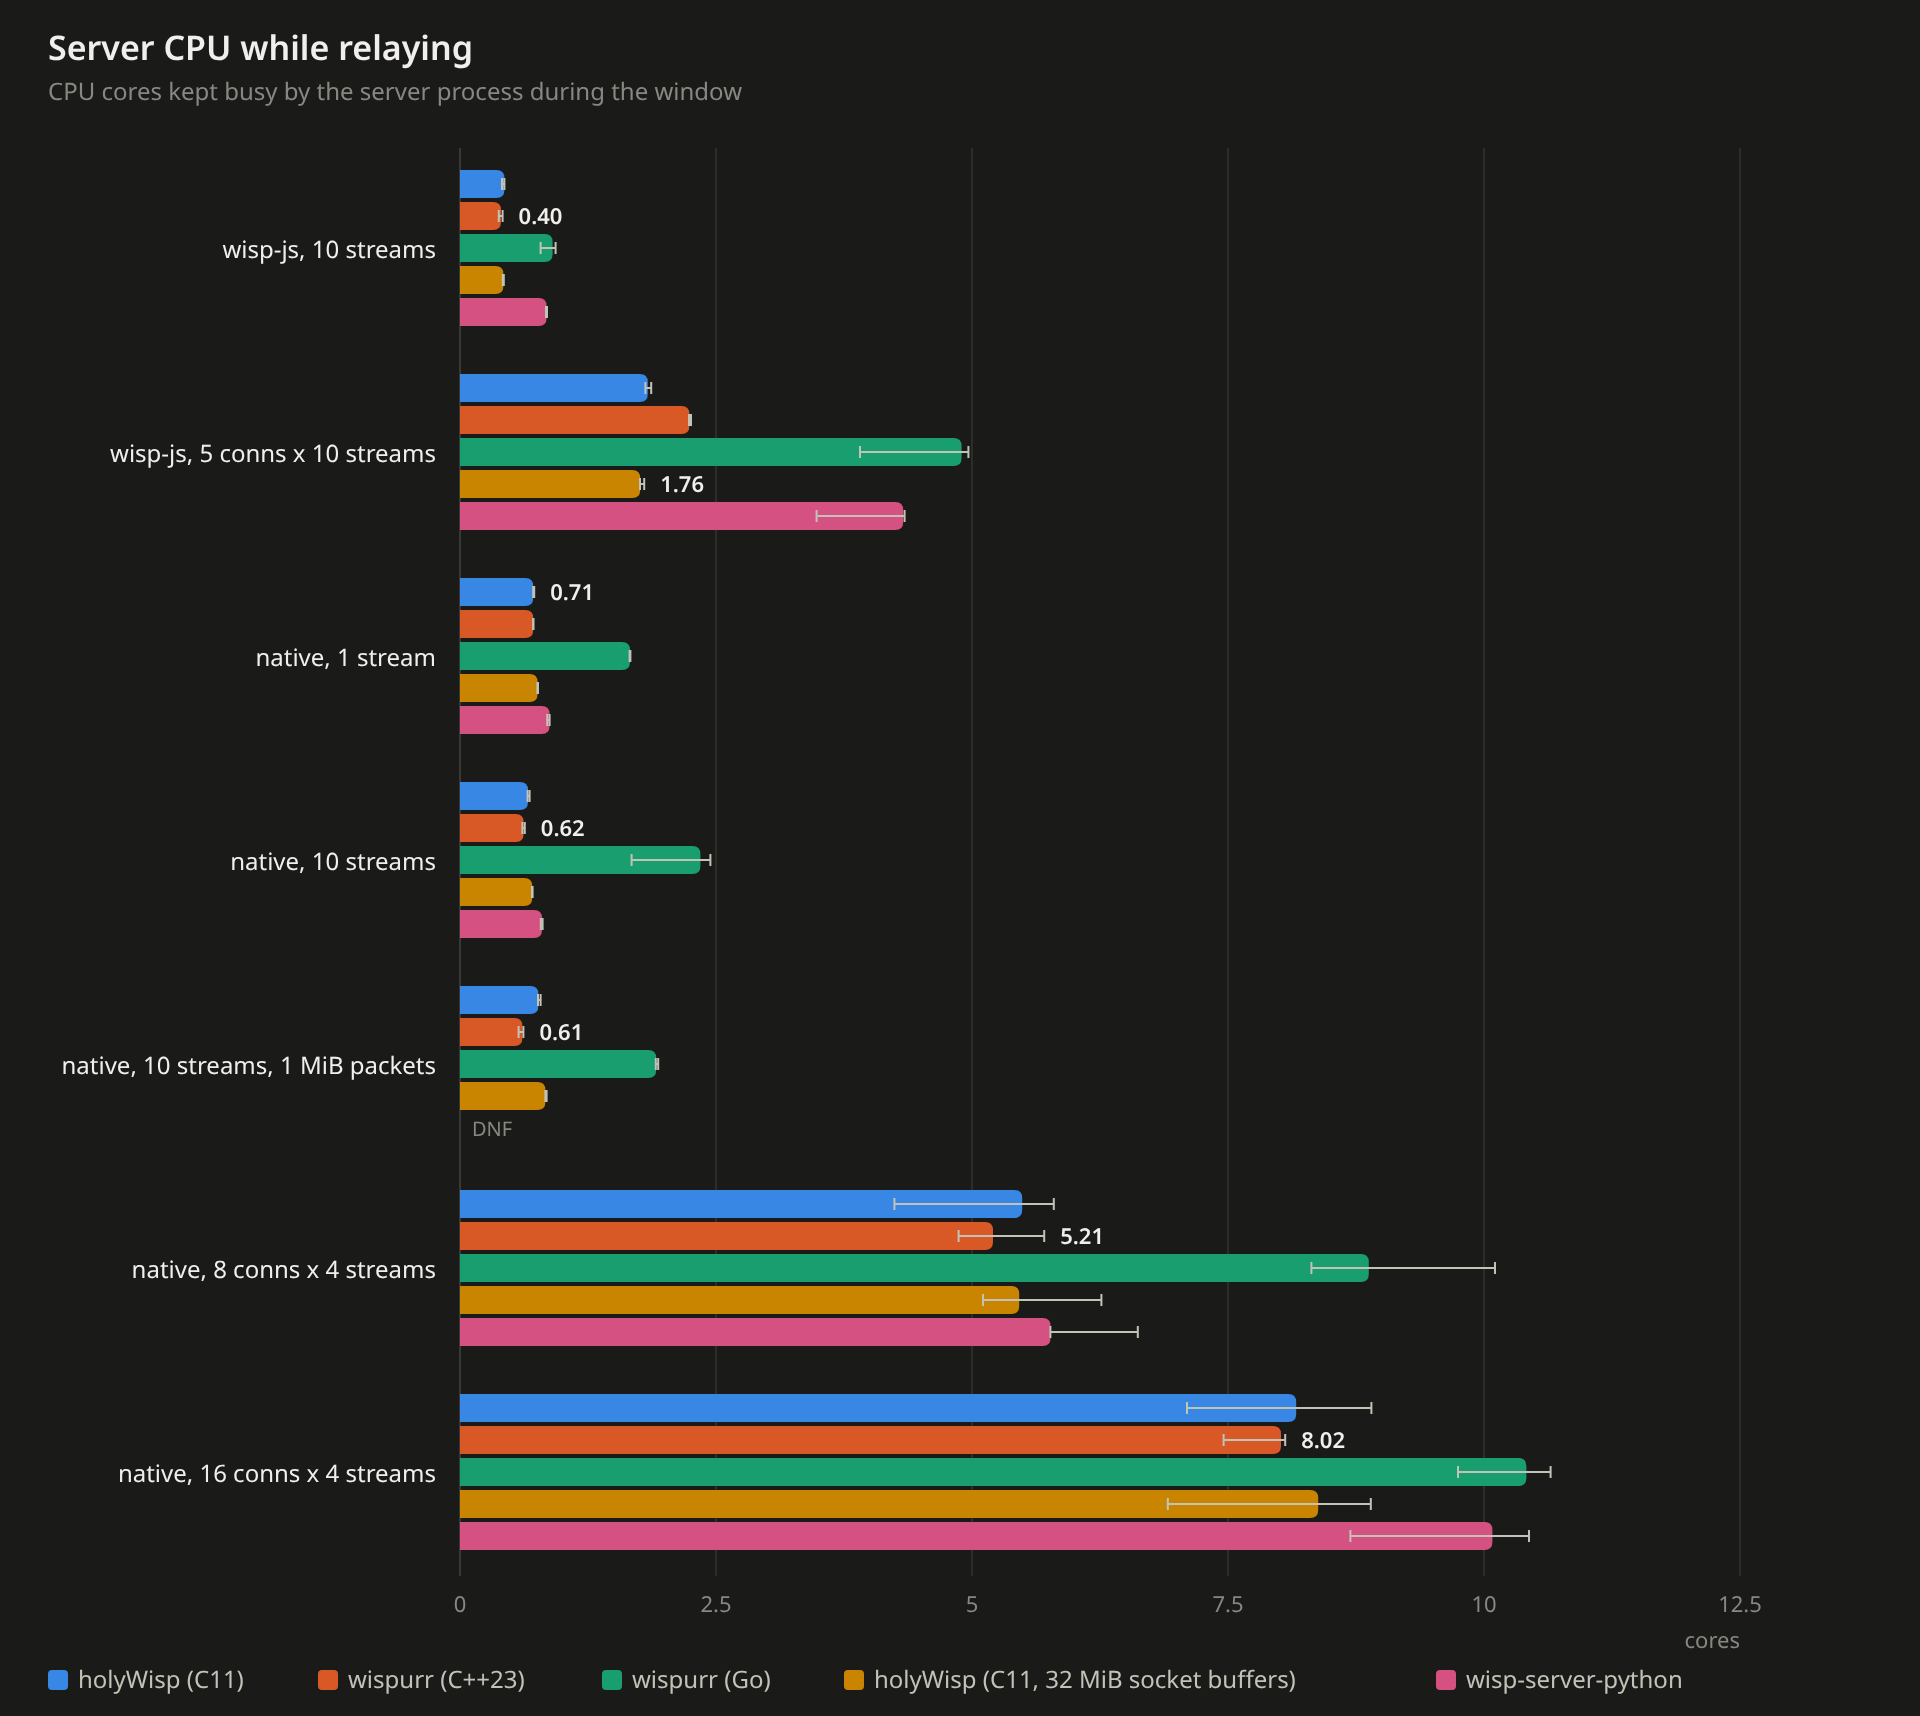
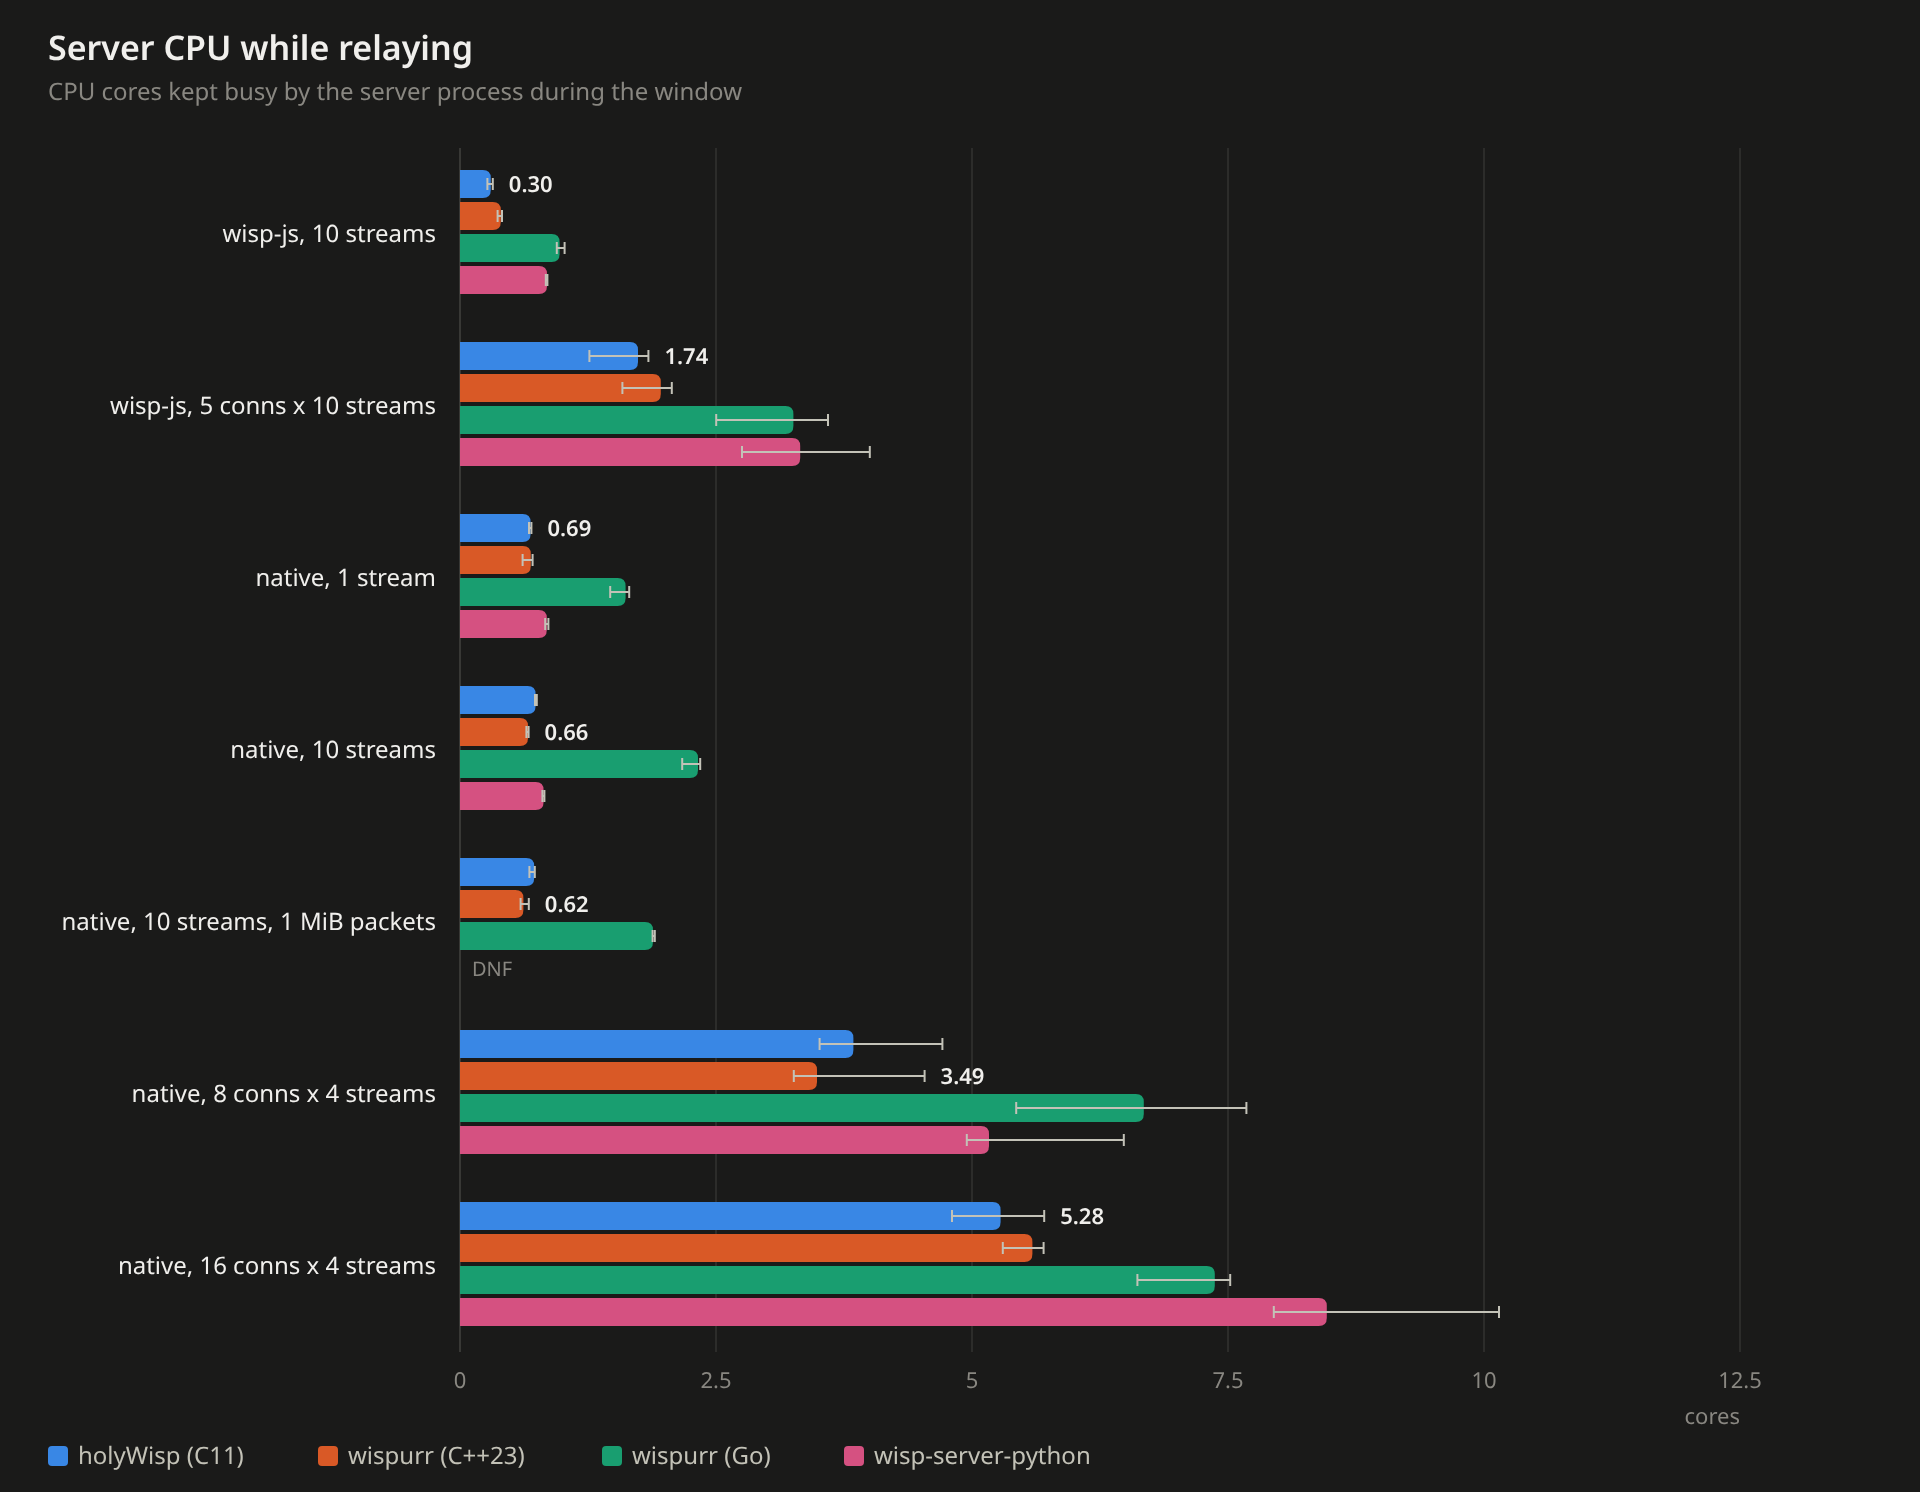
Refresh the benchmark results for the per-stream pipe build
Reruns the four-server matrix on fc9cd24 (five repeats of 10 s) and
regenerates bench/RESULTS.md and the charts. The README section is rewritten
from the new numbers: holyWisp leads both wisp-js scenarios and both
multi-connection scenarios by 16 to 36%, is within 4% of the C++23 wispurr
when one connection carries everything, and the Go wispurr has the highest
stream churn rate. The host was not idle during the run and the page says so.

The report text no longer describes the 8-packet window or attributes
wispurr's single-connection speed to a second loop: its source runs a
connection on one loop by default.

diff --git a/bench/charts.py b/bench/charts.py
@@ -484,7 +484,7 @@ window.</dd>
 wispurr Go {esc(v.get('wispurr_go_git', ''))} ({esc(v.get('go', ''))}); wispurr C++23 built with {esc(v.get('gcc', ''))};
 wisp-server-python {esc(v.get('wisp_python_git', ''))} on {esc(v.get('python', ''))}, default thread count.
 All run with flood protection, reputation and per-IP connection limits off, loopback and literal-IP egress
-allowed, error-level logging, default worker count.</dd>
+allowed, error-level logging, default worker count. The host was not idle during the run (a desktop session was using several cores), so compare servers within a row, not numbers across runs.</dd>
 <dt>Clients</dt><dd>wisp-js {esc(v.get('wisp-js', ''))} on Node {esc(v.get('node', ''))}, which is the client wispmark uses (50 KiB payloads),
 and the native pump from this repository, built on libholywisp-client (64 KiB packets unless stated, and it
 respects the server's CONTINUE window).</dd>
@@ -506,17 +506,19 @@ respects the server's CONTINUE window).</dd>
         + (f" Runs that still failed: {esc(', '.join(sorted(dnfs.get('wispurr-go', {}))))}." if dnfs.get("wispurr-go") else "")
         + "</li>")
     findings.append(
-        "<li><strong>holyWisp keeps its window small on purpose.</strong> The stock config caps the CONTINUE "
-        "window so that a full window of 1 MiB packets fits in half of the 16 MiB per-stream queue, which "
-        "works out to 8 packets, against the 32768 wispurr advertises. holyWisp also holds a CONTINUE back "
-        "while bytes are still queued toward the remote, so a client sending small packets is paced by how "
-        "fast the remote drains rather than by how much memory the server is willing to buffer.</li>")
+        "<li><strong>How holyWisp moves bulk data.</strong> Toward the client, a stream whose remote "
+        "delivers full reads gets its own pipe and is relayed with splice(), with pipe payloads queued in "
+        "order behind the frame bytes, so nothing is copied through user space. Toward the remote, "
+        "consecutive frames for a stream leave in one vectored write and frames of 128 KiB or more are "
+        "forwarded while they are still arriving. The advertised CONTINUE window is 128 packets; refills "
+        "share a per-connection budget between streams, and a CONTINUE is held back while bytes are still "
+        "queued toward the remote.</li>")
     findings.append(
-        "<li><strong>One connection or many.</strong> The C++23 wispurr splits each WebSocket's two "
-        "directions across two event loops and moves data with splice(), so a single busy connection can "
-        "use two cores. holyWisp keeps each connection on one loop and spreads connections across loops "
-        "with SO_REUSEPORT. That is why the single-connection scenarios go to wispurr and the 8 and 16 "
-        "connection scenarios go to holyWisp.</li>")
+        "<li><strong>One connection or many.</strong> Both holyWisp and the C++23 wispurr run a connection "
+        "on one event loop (wispurr can split a connection's two directions across loops, but its source "
+        "defaults to one and notes the split costs more CPU than it returns). They are close when a single "
+        "connection carries everything; holyWisp pulls ahead as traffic spreads over connections, where it "
+        "relays more bytes per CPU-second.</li>")
     if "wisp-python" in servers:
         findings.append(
             "<li><strong>wisp-server-python needed two install fixes.</strong> On this host's Python 3.14 it "

diff --git a/bench/RESULTS.md b/bench/RESULTS.md
@@ -1,69 +1,69 @@
 # Benchmark results
 
-Run on 2026-11-06. Charts for every table below are in `charts/`, light and dark.
+Run on 2026-11-09. Charts for every table below are in `charts/`, light and dark.
 The method, the exact server and client command lines, and the install notes for each server are in
 [README.md](README.md). Regenerate with `python3 -I bench/run.py` and `python3 -I bench/charts.py`.
 
+The host was a desktop that was not idle during the run (a browser was using several cores), so
+absolute numbers are lower than on a quiet machine and vary by several percent between runs.
+Servers were measured interleaved, so compare them within a row; differences of a few percent are
+within the noise.
+
 | | version |
 | --- | --- |
-| holyWisp | holywisp 0.1.0 (cb2510a), release build |
-| wispurr (Go) | 36de32e, go1.26.4 linux/amd64 |
+| holyWisp | holywisp 0.1.0 (fc9cd24), release build |
 | wispurr (C++23) | g++ (GCC) 16.2.1 20260819 (Red Hat 16.2.1-2) |
+| wispurr (Go) | 36de32e, go1.26.4 linux/amd64 |
 | wisp-server-python | deeb390, Python 3.13.15, websockets 13.1 |
 | wisp-js client | 0.4.1 on Node v24.16.0 |
 | kernel | 7.0.10-201.fc44.x86_64 |
 
 ```
 CPU: AMD Ryzen 9 7950X 16-Core Processor (x32)
-Test duration: 10s x 3 (median)
+Test duration: 10s x 5 (median)
 ```
 
 ### Throughput (MiB/s through the echo port)
 
 | server | wisp-js, 10 streams | wisp-js, 5 conns x 10 streams | native, 1 stream | native, 10 streams | native, 10 streams, 1 MiB packets | native, 8 conns x 4 streams | native, 16 conns x 4 streams |
 |---|---|---|---|---|---|---|---|
-| holyWisp (C11) | 1,156 | 2,551 | 1,554 | 1,689 | 1,663 | 5,884 | 4,958 |
-| holyWisp (C11, 32 MiB socket buffers) | 1,166 | 2,667 | 1,745 | 1,682 | 1,855 | 5,872 | 5,381 |
-| wispurr (Go) | 929 | 1,538 | 2,108 | 2,189 | 1,915 | 3,029 | 2,414 |
-| wispurr (C++23) | 1,065 | 1,829 | 2,889 | 2,859 | 2,636 | 5,154 | 3,314 |
-| wisp-server-python | 685 | 1,080 | 609 | 686 | DNF | 3,229 | 2,031 |
+| holyWisp (C11) | 872 | 1,553 | 2,465 | 2,078 | 2,109 | 3,621 | 3,693 |
+| wispurr (C++23) | 749 | 1,143 | 2,461 | 2,170 | 2,170 | 2,993 | 2,720 |
+| wispurr (Go) | 799 | 1,202 | 1,540 | 1,528 | 1,422 | 1,879 | 1,922 |
+| wisp-server-python | 525 | 878 | 566 | 568 | DNF | 2,025 | 1,767 |
 
 ### Server CPU cores busy during the throughput tests
 
 | server | wisp-js, 10 streams | wisp-js, 5 conns x 10 streams | native, 1 stream | native, 10 streams | native, 10 streams, 1 MiB packets | native, 8 conns x 4 streams | native, 16 conns x 4 streams |
 |---|---|---|---|---|---|---|---|
-| holyWisp (C11) | 0.43 | 1.83 | 0.71 | 0.66 | 0.77 | 5.49 | 8.17 |
-| holyWisp (C11, 32 MiB socket buffers) | 0.42 | 1.76 | 0.76 | 0.71 | 0.83 | 5.46 | 8.38 |
-| wispurr (Go) | 0.90 | 4.90 | 1.66 | 2.35 | 1.92 | 8.88 | 10.41 |
-| wispurr (C++23) | 0.40 | 2.24 | 0.72 | 0.62 | 0.61 | 5.21 | 8.02 |
-| wisp-server-python | 0.85 | 4.33 | 0.87 | 0.80 | DNF | 5.77 | 10.08 |
+| holyWisp (C11) | 0.30 | 1.74 | 0.69 | 0.74 | 0.72 | 3.84 | 5.28 |
+| wispurr (C++23) | 0.40 | 1.96 | 0.69 | 0.66 | 0.62 | 3.49 | 5.59 |
+| wispurr (Go) | 0.97 | 3.26 | 1.62 | 2.32 | 1.89 | 6.68 | 7.37 |
+| wisp-server-python | 0.85 | 3.32 | 0.85 | 0.82 | DNF | 5.17 | 8.46 |
 
 ### MiB relayed per server CPU-second (efficiency)
 
 | server | wisp-js, 10 streams | wisp-js, 5 conns x 10 streams | native, 1 stream | native, 10 streams | native, 10 streams, 1 MiB packets | native, 8 conns x 4 streams | native, 16 conns x 4 streams |
 |---|---|---|---|---|---|---|---|
-| holyWisp (C11) | 2,662 | 1,409 | 2,157 | 2,545 | 2,169 | 1,129 | 607 |
-| holyWisp (C11, 32 MiB socket buffers) | 2,719 | 1,516 | 2,304 | 2,384 | 2,223 | 1,004 | 642 |
-| wispurr (Go) | 1,027 | 321 | 1,266 | 944 | 1,000 | 341 | 234 |
-| wispurr (C++23) | 2,633 | 818 | 4,027 | 4,608 | 4,332 | 912 | 415 |
-| wisp-server-python | 815 | 249 | 697 | 857 | DNF | 532 | 210 |
+| holyWisp (C11) | 2,831 | 894 | 3,581 | 2,772 | 2,883 | 948 | 716 |
+| wispurr (C++23) | 1,883 | 601 | 3,565 | 3,260 | 3,503 | 859 | 491 |
+| wispurr (Go) | 800 | 345 | 952 | 672 | 756 | 287 | 271 |
+| wisp-server-python | 616 | 260 | 679 | 697 | DNF | 358 | 204 |
 
 ### Round-trip latency, 64 B echo, one stream (us)
 
 | server | p50 | p90 | p99 | p99.9 | mean | round trips/s |
 |---|---|---|---|---|---|---|
-| holyWisp (C11) | 28 | 35 | 49 | 77 | 30.07 | 32,682 |
-| holyWisp (C11, 32 MiB socket buffers) | 29 | 38 | 54 | 86 | 31.28 | 31,440 |
-| wispurr (Go) | 35 | 47 | 70 | 170 | 38.56 | 25,580 |
-| wispurr (C++23) | 29 | 37 | 53 | 89 | 31.09 | 31,637 |
-| wisp-server-python | 46 | 60 | 96 | 236 | 49.99 | 19,794 |
+| holyWisp (C11) | 33 | 46 | 70 | 386 | 36.23 | 27,179 |
+| wispurr (C++23) | 33 | 44 | 66 | 269 | 35.91 | 27,426 |
+| wispurr (Go) | 40 | 56 | 92 | 309 | 44.20 | 22,324 |
+| wisp-server-python | 55 | 83 | 155 | 778 | 64.02 | 15,471 |
 
 ### Stream churn (open + 1 B echo + close, lifecycles/s)
 
 | server | stream churn, 8 conns x 32 in flight | server cores | peak RSS MiB |
 |---|---|---|---|
-| holyWisp (C11) | 16,295 | 7.14 | 4.00 |
-| holyWisp (C11, 32 MiB socket buffers) | 16,260 | 6.30 | 3.95 |
-| wispurr (Go) | 19,831 | 21.79 | 404 |
-| wispurr (C++23) | 16,556 | 7.09 | 10.99 |
-| wisp-server-python | 15,902 | 7.46 | 976 |
+| holyWisp (C11) | 15,386 | 6.02 | 3.97 |
+| wispurr (C++23) | 15,518 | 6.81 | 10.88 |
+| wispurr (Go) | 18,328 | 18.10 | 411 |
+| wisp-server-python | 14,985 | 6.40 | 972 |

diff --git a/README.md b/README.md
@@ -179,23 +179,28 @@ v2, the protocol log, and a light/dark theme. The default target is `http://api.
 `bench/` holds a wispmark-style harness that runs holyWisp, both wispurr implementations and
 wisp-server-python on the same host, through the same echo service, driven by the same clients.
 Full tables are in [bench/RESULTS.md](bench/RESULTS.md); the method and how to rerun it are in
-[bench/README.md](bench/README.md). These are the medians of three 10 s runs on a Ryzen 9 7950X,
-in MiB/s through the echo port.
+[bench/README.md](bench/README.md). These are the medians of five 10 s runs on a Ryzen 9 7950X,
+in MiB/s through the echo port, with the fastest server in each row in bold.
 
 | scenario | holyWisp | wispurr C++23 | wispurr Go | wisp-server-python |
 | --- | --- | --- | --- | --- |
-| wisp-js, 10 streams | **1,156** | 1,065 | 929 | 685 |
-| wisp-js, 5 connections x 10 streams | **2,551** | 1,829 | 1,538 | 1,080 |
-| native client, 1 stream | 1,554 | **2,889** | 2,108 | 609 |
-| native client, 10 streams | 1,689 | **2,859** | 2,189 | 686 |
-| native client, 8 connections x 4 streams | **5,884** | 5,154 | 3,029 | 3,229 |
-| native client, 16 connections x 4 streams | **4,958** | 3,314 | 2,414 | 2,031 |
-| 64 B round trip, p50 / p99.9 | **28 / 77 us** | 29 / 89 us | 35 / 170 us | 46 / 236 us |
-| peak RSS under stream churn | **4 MiB** | 11 MiB | 404 MiB | 976 MiB |
+| wisp-js, 10 streams | **872** | 749 | 799 | 525 |
+| wisp-js, 5 connections x 10 streams | **1,553** | 1,143 | 1,202 | 878 |
+| native client, 1 stream | **2,465** | 2,461 | 1,540 | 566 |
+| native client, 10 streams | 2,078 | **2,170** | 1,528 | 568 |
+| native client, 10 streams, 1 MiB packets | 2,109 | **2,170** | 1,422 | did not finish |
+| native client, 8 connections x 4 streams | **3,621** | 2,993 | 1,879 | 2,025 |
+| native client, 16 connections x 4 streams | **3,693** | 2,720 | 1,922 | 1,767 |
+| 64 B round trip, p50 / p99 | 33 / 70 us | 33 / 66 us | 40 / 92 us | 55 / 155 us |
+| stream churn, lifecycles/s (server cores) | 15,386 (6.0) | 15,518 (6.8) | **18,328** (18.1) | 14,985 (6.4) |
+| peak RSS under stream churn | **4 MiB** | 11 MiB | 411 MiB | 972 MiB |
 
-holyWisp is fastest in the wispmark-standard scenarios and whenever traffic is spread over several
-connections, and it does it on the least memory. The C++23 wispurr is faster when a single
-connection carries everything, because it splits one connection's two directions across two cores.
+holyWisp is the fastest server in both wispmark-standard scenarios and whenever traffic is spread
+over several connections, by 16 to 36% over the next one, and it uses the least memory by a wide
+margin. With a single connection carrying everything it is level with the C++23 wispurr: the two
+are within 4% of each other in all three rows, which is inside the run-to-run noise of this host.
+The Go wispurr opens and closes streams fastest, at three times the CPU. The host was not idle
+during the run, so the absolute numbers are lower than a quiet machine would give.
 
 <picture>
   <source media="(prefers-color-scheme: dark)" srcset="bench/charts/throughput-dark.png">

diff --git a/bench/README.md b/bench/README.md
@@ -36,7 +36,7 @@ and rebuild `RESULTS.md` from `results/full/results.md` plus the version table a
 ## The servers
 
 - `holywisp` is `build/release/holywisp` with the stock config plus the flags that allow loopback targets.
-- `holywisp-sockbuf` is the same with `--socket-buffer-size=33554432`, which matches wispurr's `socketBufferSize`.
+- `holywisp-sockbuf` is the same with `--socket-buffer-size=33554432`, which matches wispurr's `socketBufferSize`. It is an optional profile (`--only`), not part of the published run.
 - `wispurr-go` is `~/src/wispurr/wispurr`, built with `go build -o wispurr main.go`.
 - `wispurr-cpp` is `~/src/wispurr-cpp23/wispurr`, built with `make -C cpp -j LDFLAGS="-flto=auto -O3 -s"`.
   GCC 16 also needs `#include <cstdint>` added to `cpp/src/json.cpp`.
